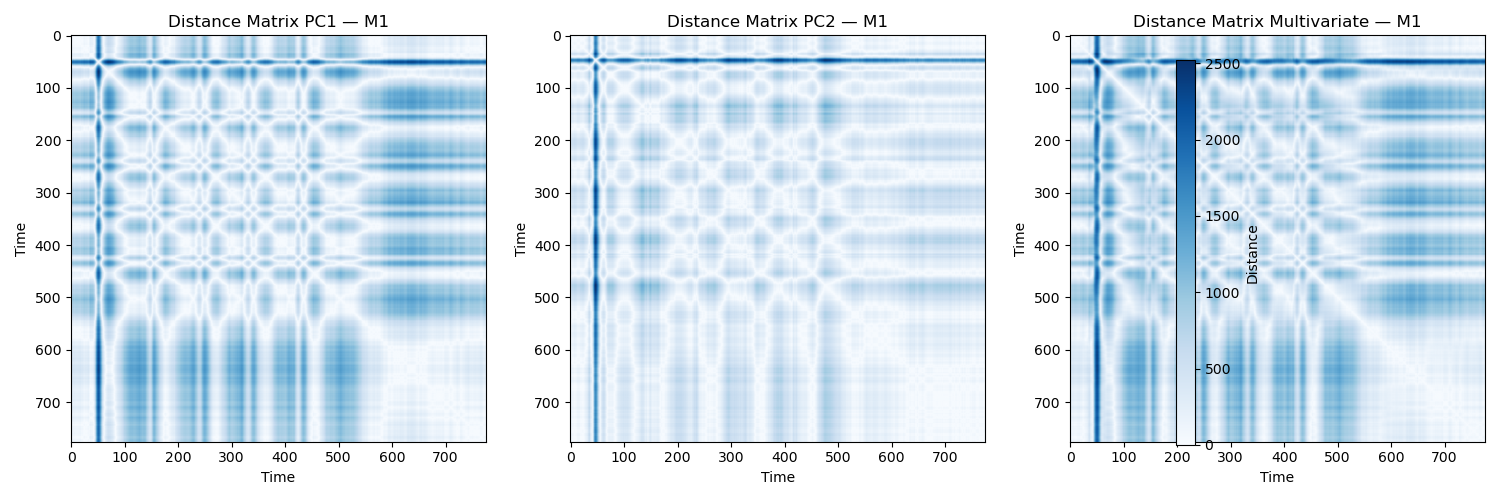
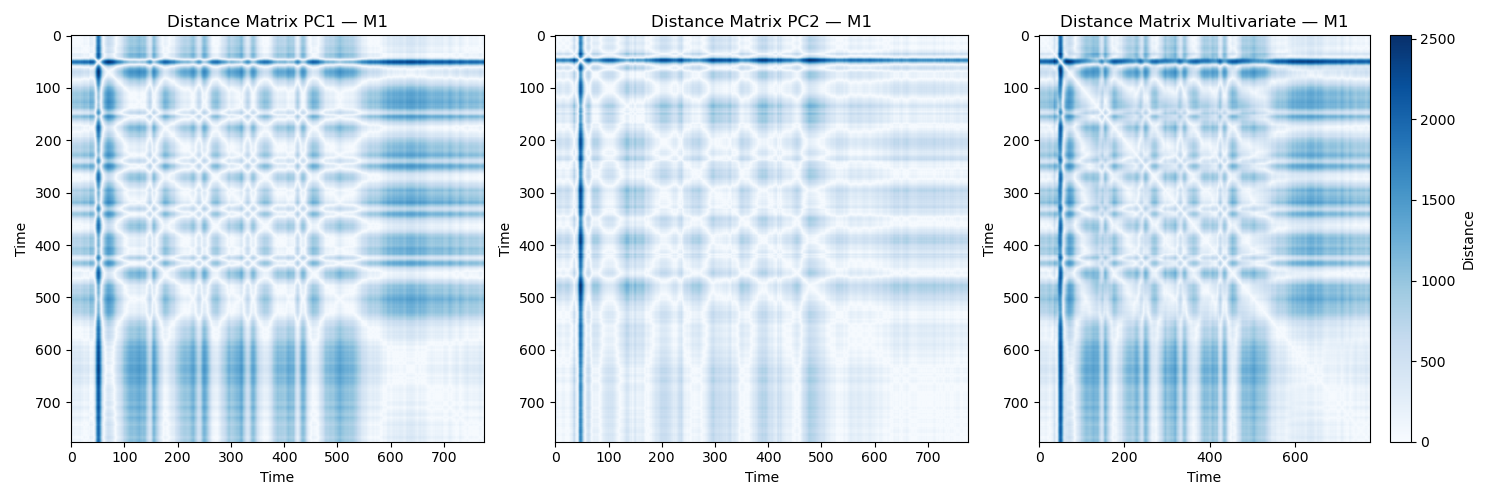
core done

diff --git a/src/rqa.py b/src/rqa.py
@@ -42,7 +42,7 @@ class RQAResult:
         time_serie2 = np.column_stack([pc2, time])
 
         def update(frame):
-            dotemb.set_data([time_serie1[frame,0]], [time_serie2[frame, 1]])
+            dotemb.set_data([time_serie1[frame,0]], [time_serie2[frame, 0]])
             dottime1.set_data([time_serie1[frame,1]], [time_serie1[frame, 0]])
             dottime2.set_data([time_serie2[frame,1]], [time_serie2[frame, 0]])
             return dotemb,dottime1,dottime2,
@@ -57,8 +57,8 @@ class RQAResult:
         ax2d.set_title('Time serie')   
         ax2d.set_xlabel('time')  
 
-        axemb.scatter(time_serie1[:,0], time_serie2[:,1], color='lightgray', alpha=0.5)
-        dotemb,  = axemb.plot(time_serie1[0, 0], time_serie2[0, 1], 'ro', markersize=10)
+        axemb.scatter(time_serie1[:,0], time_serie2[:,0], color='lightgray', alpha=0.5)
+        dotemb,  = axemb.plot(time_serie1[0, 0], time_serie2[0, 0], 'ro', markersize=10)
 
         ax2d.plot(time_serie1[:, 1], time_serie1[:, 0])
         ax2d.plot(time_serie2[:, 1], time_serie2[:, 0])
@@ -93,7 +93,7 @@ class RQAResult:
             ax[i].set_xlabel("Time")
             ax[i].set_ylabel("Time")
 
-        fig.colorbar(im,ax=ax,label="Distance")
+        fig.colorbar(im,ax=ax[-1],label="Distance")
         plt.tight_layout()
 
         if save :